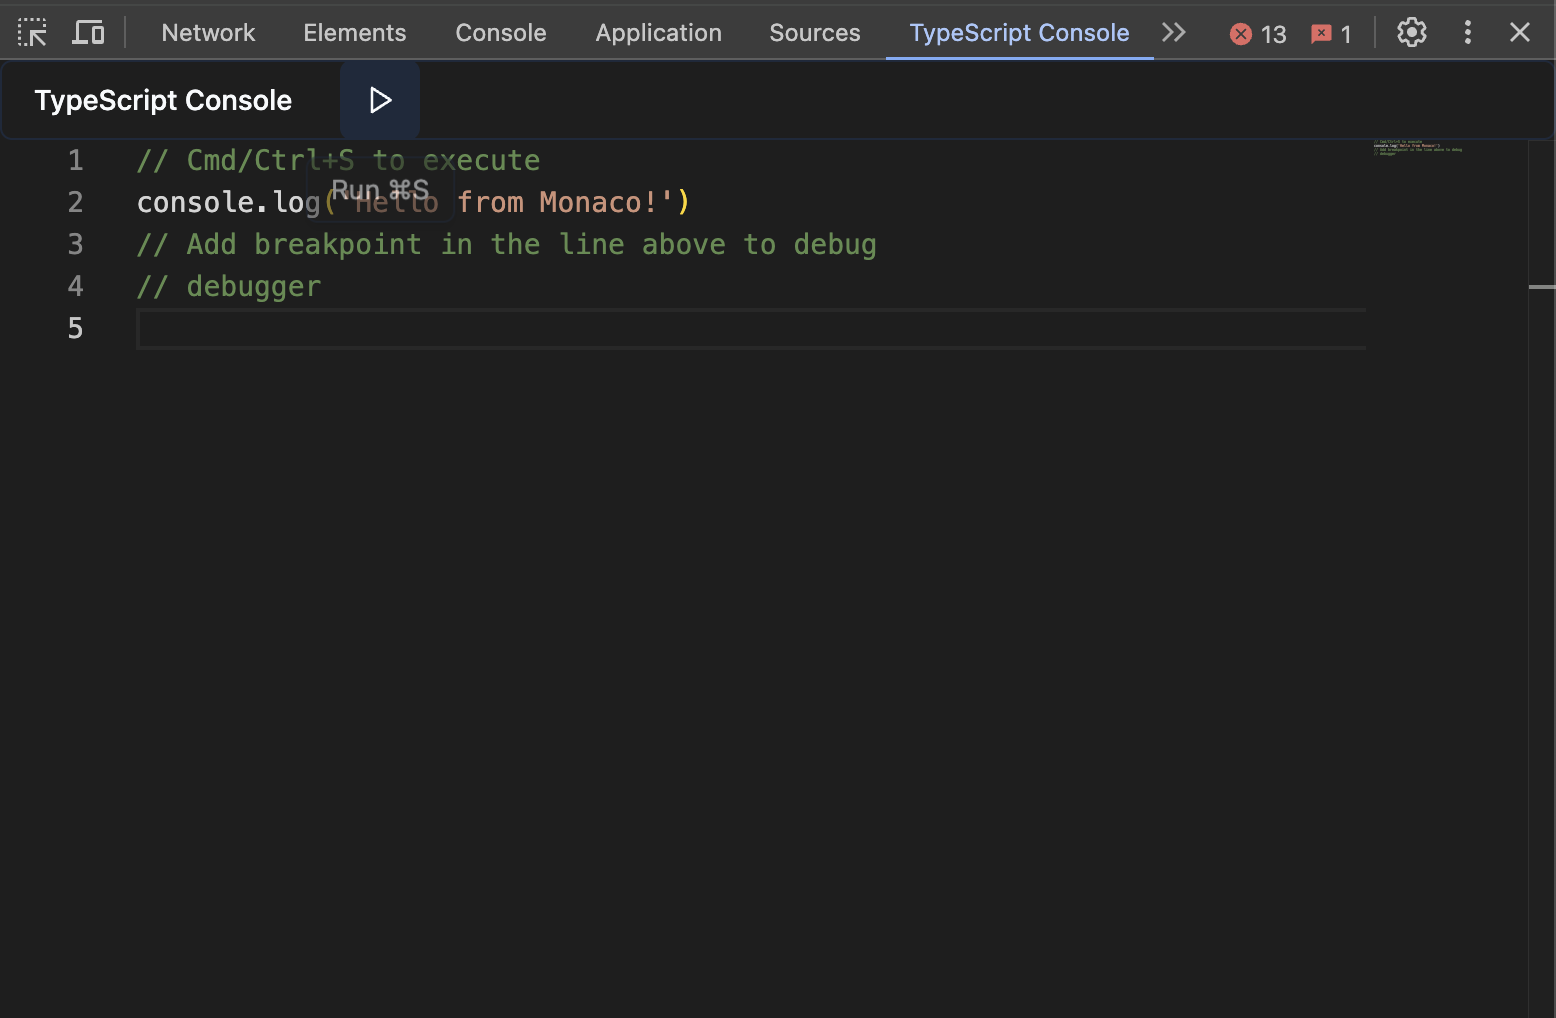
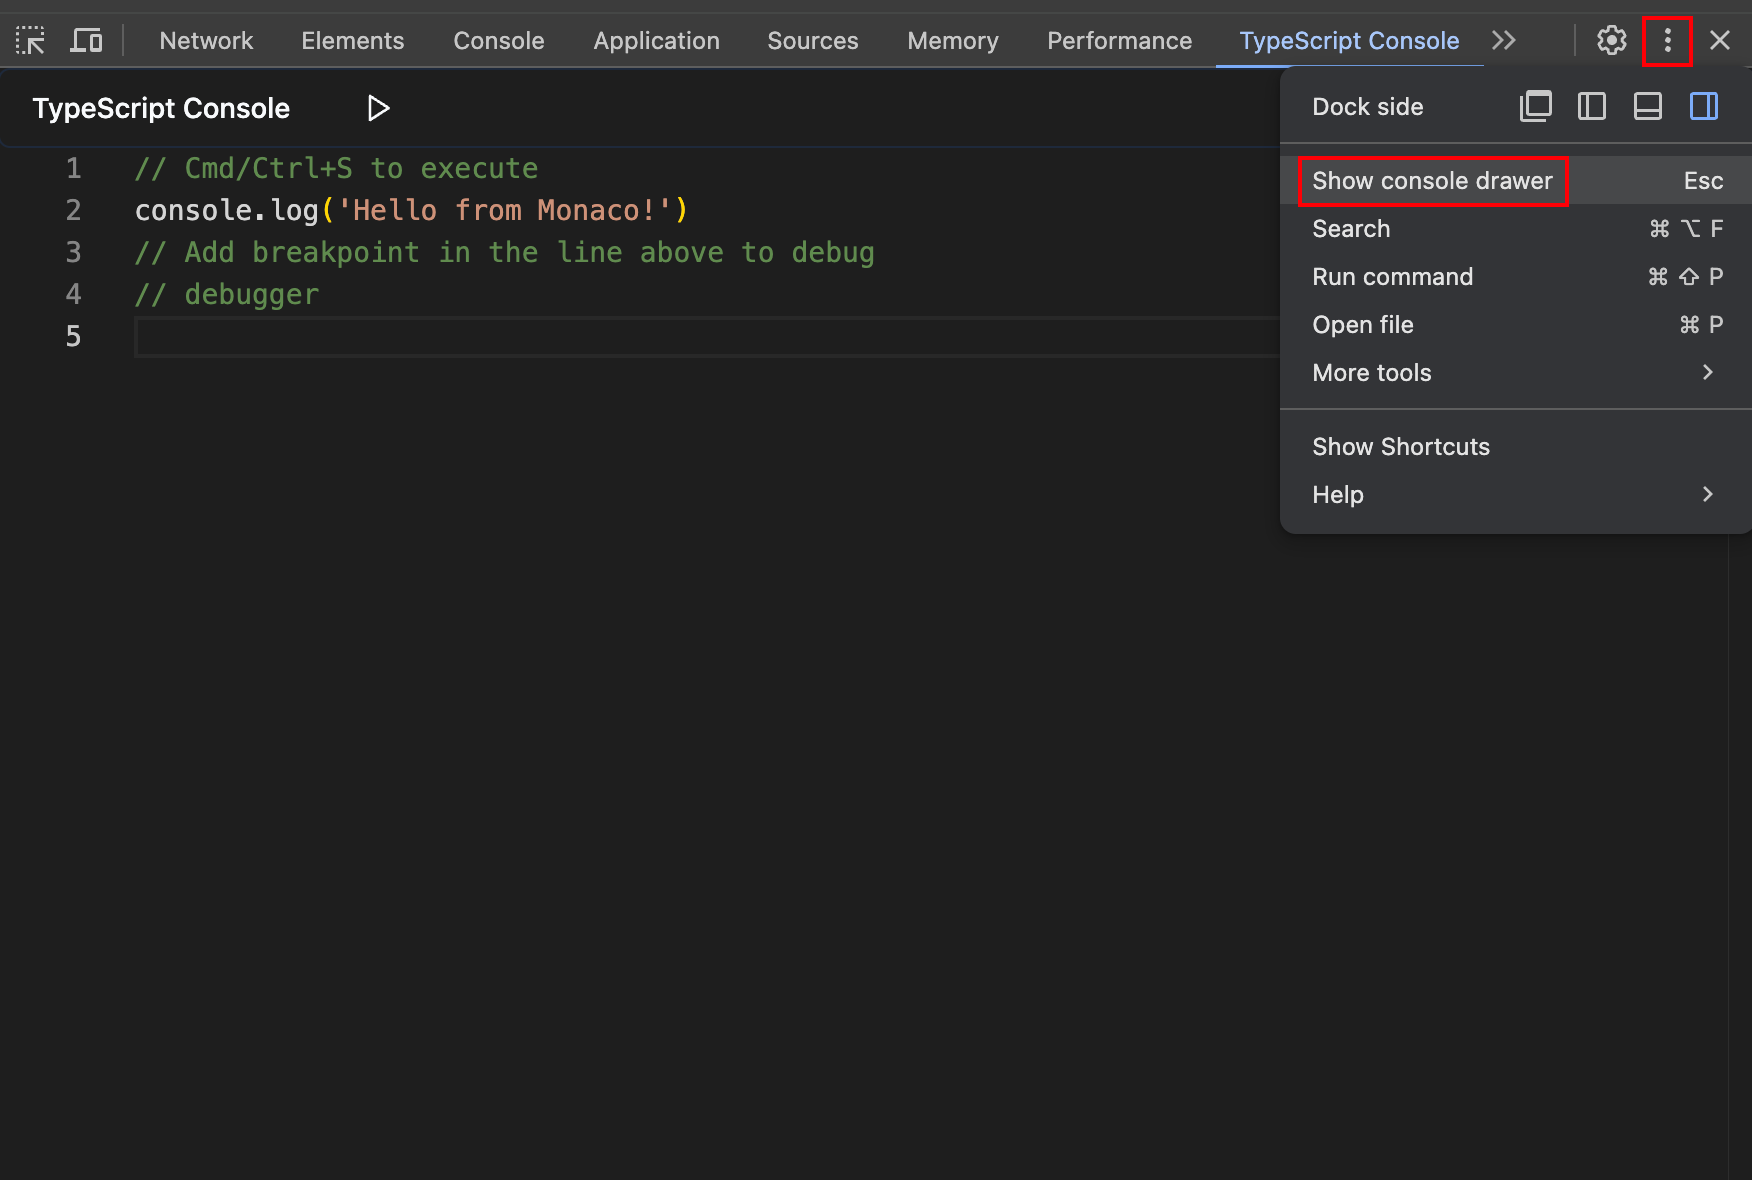
docs: update readme

Changed region(s): [[0.0, 0.0, 1.0, 0.4568]]

diff --git a/README.md b/README.md
@@ -24,9 +24,11 @@ Run and debug TypeScript code in the Chrome DevTools.
 2. Open Chrome DevTools.
 3. Open the "TypeScript Console" panel.
    ![demo1](./public/demo1.png)
-4. Write and run TypeScript code.
+4. Show conosle drawer
    ![demo2](./public/demo2.png)
-5. Click the "Run" button or press `Cmd/Ctrl+S` to execute the code.
+5. Write and run TypeScript code.
+   ![demo3](./public/demo3.png)
+6. Click the "Run" button or press `Cmd/Ctrl+S` to execute the code.
 
 ## Demo
 
